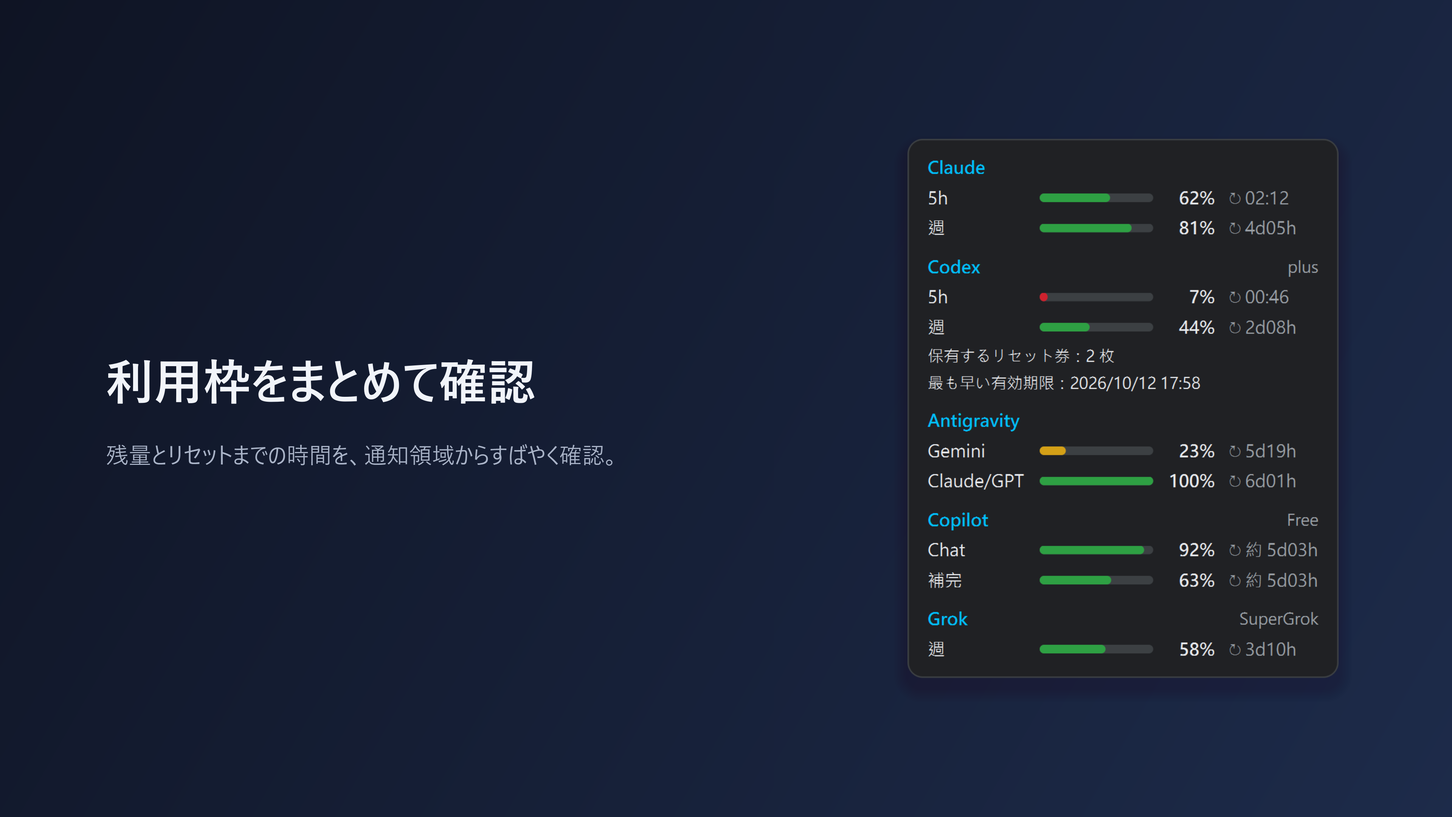
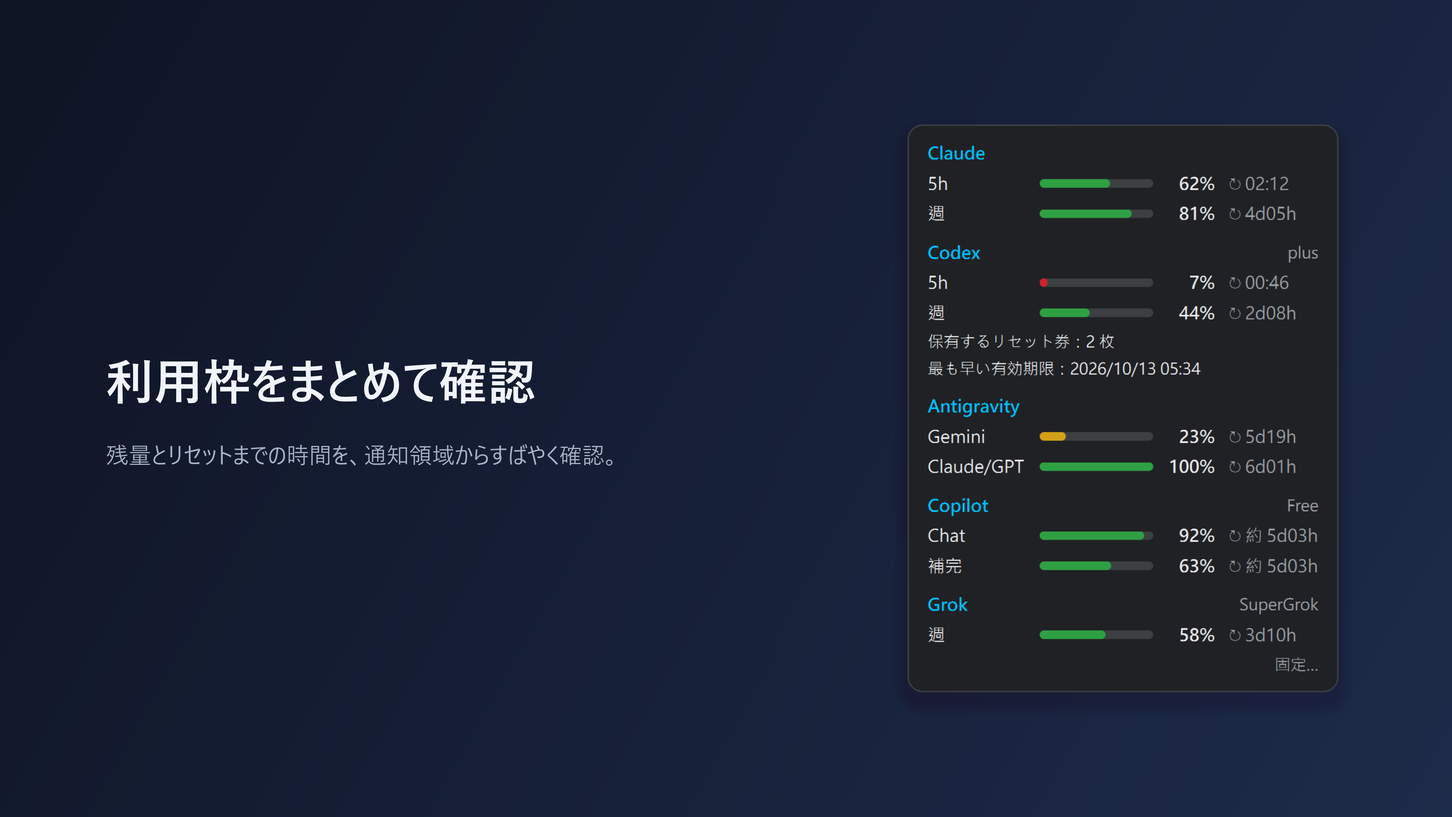
版號 0.1.5；商店文案、截圖（五語各 4 張，第 4 張為釘選）
- docs/store-listing-0.1.5.md：五語「此版本新增功能」、說明加一段換一句、功能第 13 條
- store-listing.md：runFullTrust 第 2、4 條加 Antigravity 擷取；認證注意事項加釘選
- store_shots.py：設定視窗畫成 Claude／Antigravity 都還沒安裝擷取；新增釘選那張

Changed region(s): [[0.625, 0.1551, 0.9375, 0.8685], [0.7812, 0.1551, 0.9375, 0.1861]]

diff --git a/packaging/store_shots.py b/packaging/store_shots.py
@@ -3,10 +3,12 @@
     .venv\\Scripts\\python packaging\\store_shots.py      → docs\\store\\shots\\<語言>-<n>.png
 
 為什麼不直接截桌面：會拍到業主自己的視窗、系統匣裡別的 App，而且每次重拍都不一樣。
-元件是真的（card.Card、settings.SettingsDialog），資料用示範模式的範例（demo.sample_states），
+元件是真的（card.Card、strip.Strip、settings.SettingsDialog），資料用示範模式的範例（demo.sample_states），
 只是不畫示範模式那行紅字——那行是給正在用 App 的人看的，截圖本來就是示意。
 ⚠ 每個語言的截圖要是那個語言的介面（desk-pet 經驗：英文清單配中文截圖會被退件）。
 規格：PNG、最小 1366×768、最大 3840×2160（docs/store-listing.md §8）。這裡輸出 3840×2160。
+第 4 張（0.1.5 起）是釘選：釘在桌面的卡片＋貼在工作列上方的長條。底下那條「工作列」是畫出來的示意，
+不截真的工作列（會拍到業主釘在工作列上的 App）。
 """
 from __future__ import annotations
 
@@ -22,7 +24,7 @@ from PySide6.QtCore import QPointF, QRectF, Qt  # noqa: E402
 from PySide6.QtGui import QColor, QFont, QImage, QLinearGradient, QPainter, QPainterPath, QPixmap  # noqa: E402
 from PySide6.QtWidgets import QApplication  # noqa: E402
 
-from ai_quota_tray import card as card_mod, demo, i18n, settings as settings_mod  # noqa: E402
+from ai_quota_tray import card as card_mod, demo, i18n, settings as settings_mod, strip as strip_mod  # noqa: E402
 from ai_quota_tray.model import utcnow  # noqa: E402
 
 OUT = ROOT / "docs" / "store" / "shots"
@@ -33,27 +35,33 @@ CAPTIONS = {
         ("每個額度還剩多少\n滑鼠移過去就知道", "5 小時、每週、每月的額度，剩餘百分比與重置倒數一次看完。"),
         ("淺色、深色都好讀", "跟著 Windows 的色彩設定切換；快用完的額度會變黃、變紅。"),
         ("選你用的工具\n不用登入、不碰權杖", "查詢交給電腦上已登入的官方工具，不讀你的密碼或權杖。"),
+        ("釘在桌面\n或貼在工作列上方", "不想每次都滑過圖示？把卡片留在桌面上，或縮成一排小電池貼著工作列。"),
     ],
     i18n.EN: [
         ("Every limit,\none hover away", "5-hour, weekly, and monthly limits: the percentage left and the reset countdown at a glance."),
         ("Easy to read,\nlight or dark", "Follows your Windows color mode. Limits that are running low turn yellow, then red."),
         ("Pick your tools.\nNo sign-in, no tokens.", "Lookups go through the official tools already signed in on your PC. "
                                                     "AI Usage Meter never reads your passwords or tokens."),
+        ("Pin it to your desktop\nor above the taskbar", "Keep the card on your desktop, or shrink it into a row of "
+                                                          "tiny batteries right above the taskbar."),
     ],
     i18n.JA: [
         ("利用枠をまとめて確認", "残量とリセットまでの時間を、通知領域からすばやく確認。"),
         ("明るい画面でも暗い画面でも", "Windows の表示モードに合わせて見やすく表示します。"),
         ("使うツールを選択", "サインイン済みの公式ツールを利用し、パスワードやトークンは読み取りません。"),
+        ("デスクトップや\nタスクバーの上に固定", "カードをデスクトップに表示したままにしたり、小さなバッテリー表示にしてタスクバーの上に並べたりできます。"),
     ],
     i18n.DE: [
         ("Alle Limits im Blick", "Restkontingent und Rücksetzzeit direkt im Windows-Infobereich sehen."),
         ("Hell oder dunkel", "Die Anzeige folgt dem Windows-Farbmodus und kennzeichnet knappe Limits."),
         ("Deine Tools wählen", "Die Abfrage nutzt angemeldete offizielle Tools – ohne Passwörter oder Token zu lesen."),
+        ("Auf dem Desktop\noder über der Taskleiste", "Lass die Karte auf dem Desktop oder als Reihe kleiner Akkus direkt über der Taskleiste."),
     ],
     i18n.ZH_CN: [
         ("各项额度 一眼看清", "悬停系统托盘图标，查看剩余用量和重置倒计时。"),
         ("浅色、深色都清晰", "跟随 Windows 显示模式，额度不足时颜色也会变化。"),
         ("选择要查看的工具", "通过已登录的官方工具查询，不读取密码或令牌。"),
+        ("固定在桌面\n或贴在任务栏上方", "把卡片留在桌面上，或缩成一排小电池贴在任务栏上方。"),
     ],
 }
 
@@ -74,11 +82,48 @@ def render_settings(dark: bool) -> QImage:
     settings_mod._palette = lambda: settings_mod.PALETTE["dark" if dark else "light"]
     # 畫新使用者看到的樣子（「安裝」按鈕），不是這台電腦剛好已經裝好 hook 的狀態
     settings_mod.claude_hook.status = lambda: settings_mod.claude_hook.NOT_INSTALLED
+    settings_mod.agy_hook.status = lambda: settings_mod.agy_hook.NOT_INSTALLED
     dlg = settings_mod.SettingsDialog({"claude", "codex", "copilot"}, i18n.current(), lambda *a, **k: None)
     return widget_image(dlg)
 
 
-def compose(shot: QImage, title: str, subtitle: str, dark_bg: bool, scale: float) -> QImage:
+def render_pinned() -> tuple[QImage, QImage]:
+    """釘在桌面的卡片（左下角有「立即刷新」）與工作列長條，都用深色。"""
+    dark = lambda: card_mod.THEMES["dark"]  # noqa: E731
+    card_mod._theme = strip_mod._theme = dark
+    states = demo.sample_states(utcnow())
+    desk = card_mod.Card(pinned=True)
+    desk.set_states(states[:3], banner=None)
+    bar = strip_mod.Strip()
+    bar.set_states(states, banner=None)
+    return widget_image(desk), widget_image(bar)
+
+
+TASKBAR_H = 64
+
+
+def compose_pinned(desk: QImage, bar: QImage, title: str, subtitle: str) -> QImage:
+    """右上：釘在桌面的卡片；底下：示意的工作列，長條貼在它上緣、靠右。左邊照樣是標題與說明。"""
+    img = compose(None, title, subtitle, dark_bg=True, scale=1.0, text_right=W - 760)
+    p = QPainter(img)
+    p.setRenderHints(QPainter.Antialiasing | QPainter.SmoothPixmapTransform)
+    p.fillRect(QRectF(0, H - TASKBAR_H, W, TASKBAR_H), QColor("#161a22"))
+    p.fillRect(QRectF(0, H - TASKBAR_H, W, 1), QColor("#2c3240"))
+    bw, bh = bar.width() / bar.devicePixelRatio() * 1.45, bar.height() / bar.devicePixelRatio() * 1.45
+    p.drawImage(QRectF(W - bw - 70, H - TASKBAR_H - bh, bw, bh), bar)
+    dw, dh = desk.width() / desk.devicePixelRatio() * 1.45, desk.height() / desk.devicePixelRatio() * 1.45
+    x, y = W - dw - 150, (H - TASKBAR_H - bh - dh) / 2
+    for i in range(18, 0, -2):
+        path = QPainterPath()
+        path.addRoundedRect(QRectF(x - i, y - i + 14, dw + 2 * i, dh + 2 * i), 18 + i, 18 + i)
+        p.fillPath(path, QColor(0, 0, 0, 5))
+    p.drawImage(QRectF(x, y, dw, dh), desk)
+    p.end()
+    return img
+
+
+def compose(shot: QImage | None, title: str, subtitle: str, dark_bg: bool, scale: float,
+            text_right: float | None = None) -> QImage:
     img = QImage(W * DPR, H * DPR, QImage.Format_ARGB32)
     img.setDevicePixelRatio(DPR)
     p = QPainter(img)
@@ -90,14 +135,17 @@ def compose(shot: QImage, title: str, subtitle: str, dark_bg: bool, scale: float
         grad.setColorAt(0, QColor("#eef2f8")), grad.setColorAt(1, QColor("#d9e3f2"))
     p.fillRect(QRectF(0, 0, W, H), grad)
 
-    # 右邊：元件（邏輯尺寸 × scale），加一層柔和陰影
-    sw, sh = shot.width() / shot.devicePixelRatio() * scale, shot.height() / shot.devicePixelRatio() * scale
-    x, y = W - sw - 150, (H - sh) / 2
-    for i in range(18, 0, -2):  # 簡單的疊層陰影
-        path = QPainterPath()
-        path.addRoundedRect(QRectF(x - i, y - i + 14, sw + 2 * i, sh + 2 * i), 18 + i, 18 + i)
-        p.fillPath(path, QColor(0, 0, 0, 5 if dark_bg else 3))
-    p.drawImage(QRectF(x, y, sw, sh), shot)
+    # 右邊：元件（邏輯尺寸 × scale），加一層柔和陰影；shot=None 時由呼叫端自己畫（compose_pinned）
+    if shot is not None:
+        sw, sh = shot.width() / shot.devicePixelRatio() * scale, shot.height() / shot.devicePixelRatio() * scale
+        x, y = W - sw - 150, (H - sh) / 2
+        for i in range(18, 0, -2):  # 簡單的疊層陰影
+            path = QPainterPath()
+            path.addRoundedRect(QRectF(x - i, y - i + 14, sw + 2 * i, sh + 2 * i), 18 + i, 18 + i)
+            p.fillPath(path, QColor(0, 0, 0, 5 if dark_bg else 3))
+        p.drawImage(QRectF(x, y, sw, sh), shot)
+    else:
+        x = text_right
 
     # 左邊：一句標題＋一行說明
     text_c, sub_c = (QColor("#f1f4fa"), QColor("#aab4c8")) if dark_bg else (QColor("#172033"), QColor("#4a566e"))
@@ -126,11 +174,12 @@ def main() -> None:
     OUT.mkdir(parents=True, exist_ok=True)
     for lang, tag in ((lang, lang) for lang in i18n.LANGUAGES):
         i18n.set_language(lang)
-        (t1, s1), (t2, s2), (t3, s3) = CAPTIONS[lang]
+        (t1, s1), (t2, s2), (t3, s3), (t4, s4) = CAPTIONS[lang]
         shots = [
             compose(render_card(dark=True), t1, s1, dark_bg=True, scale=1.9),
             compose(render_card(dark=False), t2, s2, dark_bg=False, scale=1.9),
             compose(render_settings(dark=True), t3, s3, dark_bg=True, scale=1.25),
+            compose_pinned(*render_pinned(), t4, s4),
         ]
         for n, img in enumerate(shots, 1):
             path = OUT / f"{tag}-{n}.png"

diff --git a/ai_quota_tray/__init__.py b/ai_quota_tray/__init__.py
@@ -1,5 +1,5 @@
 """AI Usage Meter：系統匣顯示各家 AI 訂閱的剩餘額度。"""
-__version__ = "0.1.4"  # 與 pyproject 一致（test_msix 檢查）；MSIX／exe 版本資訊是四段式，見 display_version
+__version__ = "0.1.5"  # 與 pyproject 一致（test_msix 檢查）；MSIX／exe 版本資訊是四段式，見 display_version
 
 
 def display_version() -> str:

diff --git a/CLAUDE.md b/CLAUDE.md
@@ -110,6 +110,24 @@ powershell -ExecutionPolicy Bypass -File packaging\build.ps1  # 打包 → dist\
 - 送審後的小改（**不在 0.1.4.0 套件裡，進下一版**）：設定視窗副標題原本寫「查看時更新雲端額度」，活動偵測上線後不對 → 改成「打開卡片或使用工具時更新雲端額度」（五語，`settings.subtitle`）。用 Windows 真字型量過，五語都放得下（離「語言」≥144px）；⚠ offscreen 平台沒有字型、量出來的寬度不能信。
 - ✅ **Submission 4（0.1.4.0，ID `1152921505702033238`）2026-10-03 已送出認證**（業主確認後由 AI 按下，通過後立即發佈）：套件業主拖入（截圖換新版後 demo 補了重置券，同版號重新打包再拖一次 → 🔴 Partner Center 擋：「兩個完整名稱為 Fish-Zero.AIUsageMeter_0.1.4.0_X64_ 但內容不同的套件」，草稿裡同版號只能有一個檔案，要先 Remove 舊的並 Save、再上傳新的就過了，不必升版號；0.1.3.0 已移除，⚠ 套件頁那個 Save 用 ref 點沒生效、用座標點才存進去）；五語「此版本新增功能」、說明三句、功能一條照 `docs/store-listing-0.1.4.md` 改；五語截圖 15 張原位替換成新版（重置券、淺藍名稱、Grok）；「其他測試資訊」加 Grok、「all five services」。每一頁都重新載入核對過。💡 這次清單頁的 textarea／input 沒有 `name`（英文頁第一次載入有），要用索引：0＝說明、1＝新增功能、2～13＝功能、16＝簡短描述。💡 截圖替換：`img[alt=listing-screenshot-image]` 的 data URI 解碼後大小＝本機 PNG 大小，可以拿來確認換成功。⚠ 送審沒跑 WACK（0.1.3.0 PASS 之後只改 Python 碼）；套件身分的 Grok 實測也沒做（要先移除業主帳號的 Store 版）。
 
+### 0.1.5（開發中，2026-10-03 起）：釘選到桌面
+
+- 使用者回饋「能不能像桌面小工具一樣常駐」。業主 2026-10-03 定的三點：**浮在最上層**（不做貼在桌面層，Win+D／WorkerW 不穩）、**不因為釘著就一直查雲端**、**第一版用完整卡片**（不另做精簡版）。
+- 入口：hover 卡片頁尾「釘選…」選「卡片」（第一版是直接「釘選到桌面」，同日加了長條後改成選單）→ 在**同一個位置**留下 `Card(pinned=True)`（`TrayApp.desk`），hover 卡片收起來。取消：hover 卡片頁尾（釘著時變「取消釘選」）、桌面卡片的頁尾（滑鼠移進來才出現，位置保留、卡片不會變高）或右鍵（立即刷新／設定…／取消釘選，用同一個原生選單 `tray.show_menu`）。**系統匣右鍵選單沒加項目**（業主要求保持乾淨）。
+- 桌面卡片：左鍵拖曳（自己算位移，沒用 `startSystemMove`）、放開才存 `config.json` 的 `desk`（`config.Desk`：`pinned`／`x`／`y`，Qt 邏輯像素）；下次啟動照樣釘回去。拖出界、螢幕拔掉（`screenRemoved` 後 1 秒）、內容變高 → `placement.keep_on_screen` 拉進重疊最多的那個螢幕，跟哪個都不重疊就放主螢幕右下角。
+- 查詢：照背景規則（本機紀錄＋活動偵測），**滑鼠移進桌面卡片＝打開卡片**（`_refresh_on_view`，各家最短間隔照舊）；啟動、釘選本身不查雲端。還沒資料也沒在查的服務顯示「滑鼠移到這裡就會更新」（`card.hover_to_load`，`Poller.busy`），不寫「讀取中」。
+- 全螢幕：每 2 秒 `win32tray.fullscreen_app_on`（`SHQueryUserNotificationState`；`QUNS_BUSY` 時再比前景視窗跟卡片是不是同一個螢幕，D3D 獨佔全螢幕、簡報模式一律算）→ 藏起來，結束後回原位；`pinned` 不變。
+- 驗證（第一版）：真 Windows 平台截圖（繁中／英／德）、視窗樣式＝topmost＋toolwindow＋noactivate、頁尾連結點得到。業主 23:34 實機用 venv 版釘選過，log 有「全螢幕程式在前景，先藏起桌面卡片」（全螢幕偵測實機觸發過）。
+- **同日業主追加兩件**：
+  - 桌面卡片**左下角一直顯示「↻ 立即刷新」**（`Card.refresh_clicked` → `refresh_all`，不管最短間隔），有服務在查時變灰字「更新中…」（`TrayApp._update_busy`，看 `Poller.busy`）。hover 卡片沒有（打開就會查）。
+  - **第二種釘選樣子：工作列長條**（`strip.py`）。業主在三案中選「緊貼工作列上方」（另兩案：疊在工作列上——點工作列會被蓋、要一直搶最上層；嵌進 Explorer 工作列（TrafficMonitor 那種）——我們卡住工作列也卡、Windows 更新常弄壞）。橫的一排：`↻  Claude 5h [62] 週 [81]  Codex …`，每個視窗一顆**手機電量樣式的小電池、數字塞在裡面**（`strip.Battery`：填色照 `icon.level_for`、過期變灰；數字壓在填色上與壓在空白上用不同顏色，`text_on` 依亮度選黑／白字）。沒資料「—」、失敗「!」、只有無上限「∞」。**滑過、點一下都不開完整卡片**（第一版有「停 0.5 秒或點一下就開」，業主試用嫌滑過去就跳 → 同日拿掉；細節看系統匣圖示的 hover 卡片），所以長條也不會因為被滑過而查雲端，只靠背景規則、活動偵測、最左邊的 ↻。只能左右拖，存右緣（`Desk.strip_right`，內容變長往左長），`placement.dock_strip`：貼工作列上緣（工作列在上面就貼下緣；左右兩側或自動隱藏 → 可用區域底部），水平中心在哪個螢幕就貼哪個（可以拖到別的螢幕），預設主螢幕靠右。工作列移動、解析度變了沒有通知 → 跟全螢幕檢查同一個 2 秒計時器順便重新貼齊。
+  - 選樣子：hover 卡片頁尾右邊改成「釘選…」→ 原生選單「卡片（放在桌面上）／長條（貼在工作列上方）」；釘著的那個右鍵選單多這兩項（目前那種打勾），可以直接換。兩種位置分開記（`Desk.x/y` 與 `strip_right`），`Desk.style`。
+- 驗證（追加後）：`tests/test_desk.py` 29 條；unittest 251 過。真 Windows 平台截圖看過長條（繁中／英、5 家全開約 630px 寬）與卡片頁尾。⚠ **長條還沒有真人實機試過**（拖、停一下開卡片、跨螢幕、工作列在上方／自動隱藏都只有單元測試）；Win+D、多螢幕拔插也還沒看過。
+- **同日（10-04）Antigravity**：業主問為何常逾時、官方有沒有次數限制 → 背景代理查 log（結論見 §3 Antigravity：卡在 agy 啟動時的後端請求、沒有官方限制）。業主選「照 Claude 的做法」＋把 CLI 的修法一起做：狀態列擷取 `agy_hook.py`、設定視窗 Antigravity 列的安裝／移除按鈕（`settings.HOOKS`，按鈕 objectName `agyHookButton`）、CLI 逾時重試等。`tests/test_agy.py` 21 條（含照 agy 的方式經 cmd.exe 真的跑 PowerShell hook，路徑有空白與 `&` 也跑）；unittest 273 過。
+- 業主 2026-10-04 實測：設定按「安裝擷取」→ 重開 agy → `usage-cache.json` 隨 agy 狀態即時更新（只有 `fetchedAt`、`quota`）、tray 背景讀快取不啟動 agy、hook 的 PowerShell 幾秒內都結束。
+- **發版準備（2026-10-04，業主：「開始處理 MSIX 包版、隱私權更新」）**：版號 0.1.5；商店文案 `docs/store-listing-0.1.5.md`（五語新增功能、說明加一段＋換一句、功能第 13 條）；`store-listing.md` §5 runFullTrust（第 2、4 條加 agy）、§6 認證注意事項（加釘選）、§8；`store_shots.py` 五語各 4 張（第 4 張＝釘選，工作列是畫的示意）。隱私權政策（fish-zero-web）補 Antigravity 擷取與釘選——⚠ 送審前要先上線。
+- 順帶發現（沒處理）：Claude 擷取串接業主原本的 Node 狀態列（`statusline-usage.js`）時會留下沒結束的行程（2026-10-04 看到 1 個 PowerShell 從前一天 12:18 掛著、7 個 node 從前一天 11:42 起累積，CPU 0）。
+
 **下次開工：MSIX 上線版**（業主 2026-09-25 收工時說下次再處理；細節見 §5）
 
 > ⏸ **2026-09-27 的狀態**：0.1.1.0（Submission 2）已上架。0.1.2.0 的 **Submission 3** 在 Partner Center 已全部填好：套件 `AiUsageMeter-0.1.2.0-x64.msix` Validated、五語清單都 Complete（各 3 張截圖＋300×300 標誌；英文與繁中的第 3 張換成新版設定畫面）、「其他測試資訊」的認證注意事項改成五語版。只差業主按「提交以進行認證」。💡 Partner Center 清單頁的截圖本身就是「更新圖片」按鈕、旁邊有自己的 file input，替換單張可以原位上傳、不用刪掉重排。下一版：xAI（Grok）看回信。
@@ -184,7 +202,10 @@ class ProviderState:
 - 舊做法（0.1.3 以前，2026-10-03 移除）：讀 `~/.grok/auth.json` 的 access token、過期就跑 `grok models` 讓 CLI 續期、直接打 `cli-chat-proxy.grok.com/v1/billing`；`net.py` 一起刪了。細節見 `D:\FISH\git\.ai\log\2026-10.md`。
 
 ### Google Antigravity CLI（`agy`）
-- 透過 agy CLI 原生非互動指令查詢額度：`agy -p "/usage" --output-format json`（非互動 print 模式會自動展開 slash commands，且 `total_tokens: 0` 不消耗任何模型 token）。
+- **2026-10-04 起首選：狀態列擷取**（`agy_hook.py`，跟 Claude 同一套做法，業主選的）。設定視窗 Antigravity 那一列「安裝擷取」→ 改 `~/.gemini/antigravity-cli/settings.json` 的 `statusLine`（先備份 `.ai-quota-tray.bak`），hook 是 `~/.gemini/antigravity-cli/ai-quota-tray/statusline.ps1`，把 stdin 的 `quota` 存成同資料夾的 `usage-cache.json`（`{"fetchedAt": ms, "quota": {...}}`，只存這兩樣、不存 email）。背景每 2 分鐘讀它（`BACKGROUND_LOCAL`）；`fetch` 時快取 5 分鐘內就不跑 CLI（`CACHE_FRESH_FOR`）。
+  - 實測（業主電腦 agy 1.2.16，2026-10-04，暫時改設定再逐位元還原）：`quota` 只有 `gemini-weekly`、`3p-weekly` 兩個鍵（3p＝Claude／GPT），各有 `remaining_fraction`／`reset_time`／`reset_in_seconds`；登入中（`authenticating`）是 `null` → 不存。⚠ **agy 經 `cmd.exe` 執行指令，而且自己用空白切參數、不理會引號**（`"two words"` 到手是 `"two`、`words"`）→ 路徑只有安全字元就 `-File 路徑`，否則 `-EncodedCommand`（Base64）。會同時開好幾個（啟動 2 秒內 7 次）、慢的不會被砍 → 各自暫存檔再換名。**已經開著的 agy 不會重讀設定**，裝好要重開 agy。PowerShell 5.1 在 de-DE 下 `ConvertTo-Json` 小數點照樣是「.」。
+  - 沒有自訂狀態列：設 `stack_with_default: true`、hook 不印任何東西 → agy 內建狀態列照常。有自訂的：照 agy 的規則（空白切、`cmd.exe /d /c`）再跑原本的指令並印出輸出；原本 `enabled: false` 的不幫它打開。
+- 備援：透過 agy CLI 原生非互動指令查詢額度：`agy -p "/usage" --output-format json`（非互動 print 模式會自動展開 slash commands，且 `total_tokens: 0` 不消耗任何模型 token）。2026-10-03 調查（agy log 171 次 /usage）：中位數 4.2 秒、約 4% 卡超過 30 秒，全部卡在啟動時 `loadCodeAssist` 之後的後端請求；沒有任何 429，**官方沒有寫 /usage 的次數限制**。所以：每次 25 秒、逾時重開一支再試一次（`ATTEMPTS`）、逾時當下先解析已印出的 stdout、啟動前錯開 3 秒（官方 issue #573：跟其他 AI CLI 同時跑會卡，推測）、`stdin=DEVNULL`（#508）、`cwd` 固定 `config.data_dir()`（Store 版原本從 System32 起跑）。兩次都逾時 → `detail.timeout`，卡片灰字「查詢逾時，稍後會再試」（`card.is_failure` 不算紅字錯誤，`carry_over` 會帶過去）。CLI 失敗但有擷取快取 → 回快取＋`api_error`。活動偵測對 Antigravity 改 60 秒一次（`activity.ACTIVE_INTERVAL_BY_NAME`，有擷取時讀快取很便宜）。兩個來源的標籤都是 `Gemini`、`Claude/GPT`（非每週視窗接視窗名）。
 - 不碰 Windows 認證管理員中的 OAuth Token，完全由 `agy` 處理身分驗證與快取，解決了之前打內部 Cloud Code PA API 回傳 403 Forbidden 的問題。
 - 回傳結構包含 `command.data.groups`：
   - `Gemini Models`（Gemini Flash/Pro 共用額度池）

diff --git a/docs/store-listing-0.1.5.md b/docs/store-listing-0.1.5.md
@@ -1,0 +1,102 @@
+# AI Usage Meter 0.1.5.0 商店清單文案
+
+套件 `AiUsageMeter-0.1.5.0-x64.msix`。這版兩件事（細節見 CLAUDE.md「0.1.5」）：
+**釘選**（桌面卡片＋工作列長條，2026-10-03 使用者回饋）與 **Antigravity 狀態列擷取**（2026-10-04，照 Claude 的做法；沒裝時 `agy -p /usage` 逾時重試一次、逾時不再顯示成紅字）。
+App 仍然不讀、不存任何 token，「不讀取權杖」的句子都不用改。
+
+要動的欄位（其他沿用 [store-listing-0.1.4.md](store-listing-0.1.4.md) 送出時的內容）：
+
+1. **此版本的新增功能**：五語全換（下方）。
+2. **說明**：五語各「加一段」（釘選）＋「換一句」（擷取按鈕現在 Claude 與 Antigravity 都有），下方「說明」逐語對照原句。
+3. **產品功能**：五語各加第 13 條（釘選）。
+4. **runFullTrust 說明**：已同步改在 [store-listing.md](store-listing.md) §5（第 2 條多讀 agy 擷取的快取、第 4 條多 agy 的設定檔）。更新版通常不會再問；有跳出來才貼。
+5. **認證注意事項**（產品層級的「其他測試資訊」）：[store-listing.md](store-listing.md) §6 的英文最後一段多一句釘選。⚠ Partner Center 裡要逐語更新。
+6. **截圖**：五語各 4 張，`packaging/store_shots.py` 重畫（1～3 原位替換：hover 卡片多了「釘選…」、設定視窗多了 Antigravity 的「安裝擷取」；第 4 張新增：釘選）。
+7. **隱私權政策**：網址不變（`https://fish-zero.com/aiusagemeter-privacy`），內容補 Antigravity 擷取與釘選（fish-zero-web，⚠ **送審前要先上線**）。
+
+上限：新增功能 1,500 字元、每條功能 200 字元。貼純文字、一行一項、不加項目符號。
+
+## 此版本的新增功能
+
+### English (en)
+
+```text
+Pin the usage card: choose "Pin…" at the bottom of the card to keep a card on your desktop, or a slim strip above the taskbar that shows each limit as a small battery with the number inside. Drag it anywhere; it steps aside while a full-screen app is running. The desktop card has a "Refresh now" link at the bottom left.
+Antigravity CLI: Settings can now install a status line capture for agy, just like for Claude Code. While you use agy, its numbers are saved on your PC and shown right away, without starting agy in the background. Without the capture, a lookup that times out is retried once, and a timeout is no longer shown as an error.
+```
+
+### 繁體中文 (zh-TW)
+
+```text
+新增釘選：點卡片下方的「釘選…」，可以讓卡片常駐在桌面，或縮成工作列上方的一排長條（每個額度是一顆小電池，數字就在裡面）。可以拖到想要的位置；有全螢幕程式時會自動讓開。桌面卡片左下角有「立即刷新」。
+Antigravity CLI：設定裡現在可以為 agy 安裝狀態列擷取，做法跟 Claude Code 一樣。使用 agy 時，額度會存到本機並立刻顯示，不必再在背景啟動 agy 查詢。沒有安裝時，查詢逾時會自動重試一次，逾時也不再顯示成錯誤。
+```
+
+### 日本語 (ja)
+
+```text
+カードの固定に対応しました。カード下部の「固定…」から、デスクトップに常に表示するカードか、タスクバーの上に並ぶ細いバー（各利用枠を数字入りの小さなバッテリーで表示）を選べます。好きな位置にドラッグでき、全画面アプリの使用中は自動で隠れます。デスクトップのカードには左下に「今すぐ更新」があります。
+Antigravity CLI：Claude Code と同じように、設定から agy のステータスライン取得を導入できるようになりました。agy を使っている間は利用枠がこの PC に保存されてすぐに表示され、バックグラウンドで agy を起動する必要がありません。導入していない場合も、タイムアウトした照会は 1 回だけ再試行し、タイムアウトはエラーとして表示しなくなりました。
+```
+
+### Deutsch (de)
+
+```text
+Neu: Anheften. Über „Anheften…“ unten auf der Karte bleibt die Karte auf dem Desktop, oder sie wird zu einer schmalen Leiste über der Taskleiste, in der jedes Limit als kleiner Akku mit der Zahl darin erscheint. Du kannst sie frei verschieben; bei Vollbild-Apps blendet sie sich aus. Die Desktop-Karte hat links unten „Jetzt aktualisieren“.
+Antigravity CLI: In den Einstellungen lässt sich jetzt wie bei Claude Code eine Statuszeilen-Erfassung für agy installieren. Während du agy nutzt, werden die Werte auf deinem PC gespeichert und sofort angezeigt, ohne agy im Hintergrund zu starten. Ohne Erfassung wird eine Abfrage mit Zeitüberschreitung einmal wiederholt, und eine Zeitüberschreitung erscheint nicht mehr als Fehler.
+```
+
+### 简体中文 (zh-CN)
+
+```text
+新增固定：点击卡片下方的“固定…”，可以让卡片常驻桌面，或缩成任务栏上方的一排长条（每项额度显示为一个小电池，数字就在里面）。可拖到任意位置；有全屏程序时会自动隐藏。桌面卡片左下角有“立即刷新”。
+Antigravity CLI：现在可以在设置中为 agy 安装状态栏采集，做法与 Claude Code 相同。使用 agy 时，额度会保存在本机并立即显示，无需在后台启动 agy 查询。未安装时，查询超时会自动重试一次，超时也不再显示为错误。
+```
+
+## 說明
+
+每語兩處：①第一段（「滑鼠移過去就看得到」那段）後面**新增一段**；②擷取按鈕那句**整句替換**（原句是 0.1.2 的，0.1.4 沒動過）。
+
+### English (en)
+
+- 新增一段（接在第一段後）→ `You can also pin the card to your desktop, or shrink it into a strip of small batteries right above the taskbar.`
+- 原句 `The Claude Code “Install capture” and “Remove capture” buttons manage usage capture; they do not install or remove Claude Code.`
+  → `The “Install capture” and “Remove capture” buttons for Claude Code and Antigravity CLI manage usage capture; they do not install or remove those tools.`
+- 功能第 13 條 → `Pin the card to your desktop, or show limits as tiny batteries above the taskbar`
+
+### 繁體中文 (zh-TW)
+
+- 新增一段 → `也可以把卡片釘在桌面上，或縮成工作列上方的一排小電池。`
+- 原句 `Claude Code 的「安裝擷取」與「移除擷取」只管理用量擷取，不會安裝或移除 Claude Code。`
+  → `Claude Code 與 Antigravity CLI 的「安裝擷取」與「移除擷取」只管理用量擷取，不會安裝或移除這些工具。`
+- 功能第 13 條 → `可釘在桌面，或以小電池長條貼在工作列上方`
+
+### 日本語 (ja)
+
+- 新增一段 → `カードをデスクトップに固定したり、タスクバーの上に並ぶ小さなバッテリー表示にしたりすることもできます。`
+- 原句 `設定画面の Claude Code の「取得を導入／取得を削除」は、利用情報を保存するステータスライン連携を設定・解除する操作です。Claude Code 本体をインストールまたはアンインストールする操作ではありません。`
+  → `設定画面の Claude Code と Antigravity CLI の「取得を導入／取得を削除」は、利用情報を保存するステータスライン連携を設定・解除する操作です。各ツール本体をインストールまたはアンインストールする操作ではありません。`
+- 機能第 13 条 → `カードをデスクトップに固定、またはタスクバーの上に小さなバッテリーで表示`
+
+### Deutsch (de)
+
+- 新增一段 → `Du kannst die Karte auch auf dem Desktop anheften oder als Reihe kleiner Akkus direkt über der Taskleiste anzeigen.`
+- 原句 `Die Claude-Schaltflächen installieren bzw. entfernen nur die Erfassung der Nutzungsdaten, nicht Claude Code selbst.`
+  → `Die Schaltflächen bei Claude und Antigravity installieren bzw. entfernen nur die Erfassung der Nutzungsdaten, nicht die Tools selbst.`
+- Funktion 13 → `Karte auf dem Desktop anheften oder als kleine Akkus über der Taskleiste anzeigen`
+
+### 简体中文 (zh-CN)
+
+- 新增一段 → `也可以把卡片固定在桌面上，或缩成任务栏上方的一排小电池。`
+- 原句 `Claude 设置中的“安装采集／移除采集”仅管理用量采集，并非安装或卸载 Claude Code。`
+  → `Claude 与 Antigravity 设置中的“安装采集／移除采集”仅管理用量采集，并非安装或卸载这些工具。`
+- 功能第 13 条 → `可固定在桌面，或以小电池长条贴在任务栏上方`
+
+## 截圖
+
+`docs/store/shots/<語言>-1～4.png`（3840×2160）。1～3 原位替換（Partner Center 的截圖本身就是「更新圖片」按鈕），第 4 張加在最後。
+英文、日文、德文、簡中、繁中各傳自己語言那組（英文清單配中文截圖會被退件）。
+
+## 搜尋字詞
+
+不用改（每語言 7 個已滿）。
